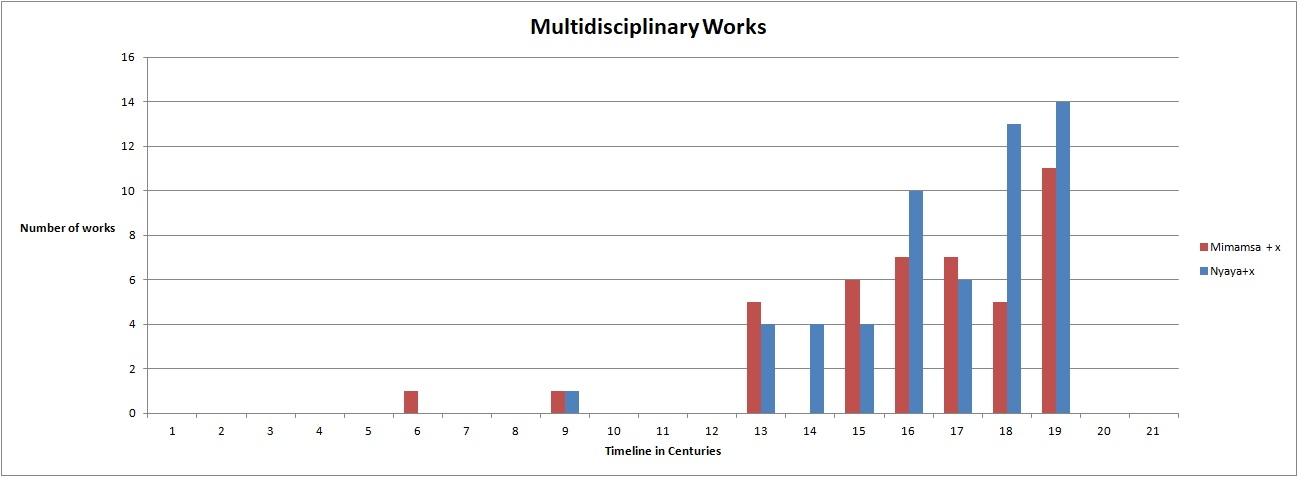
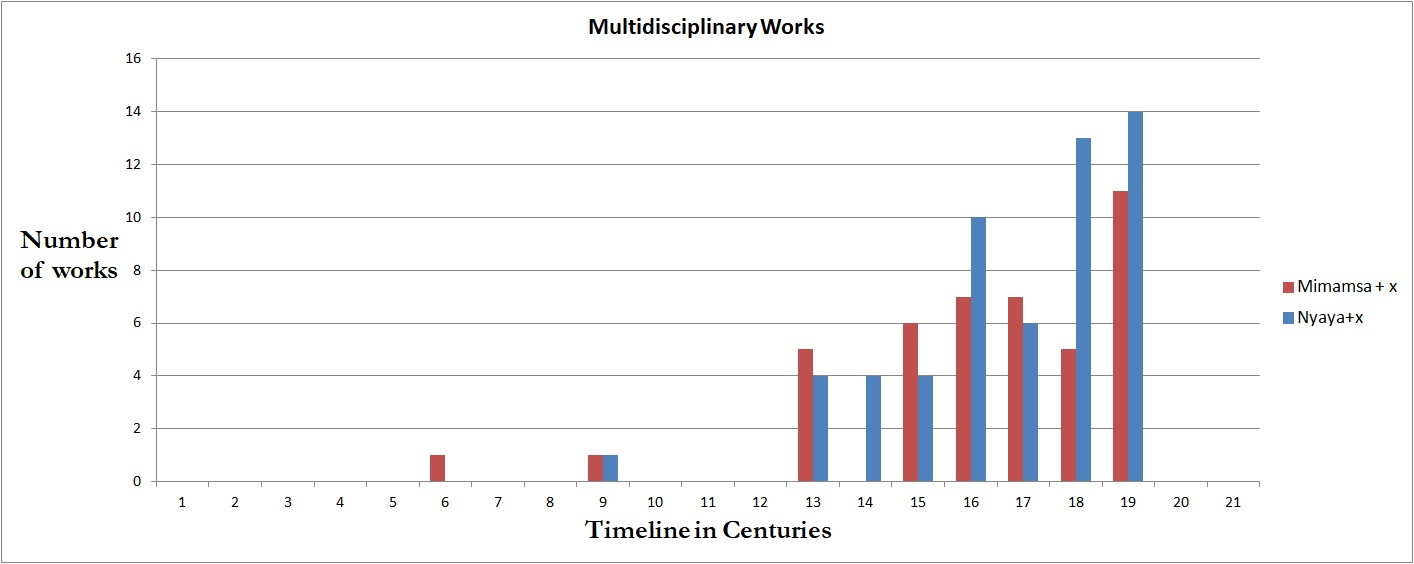
figure placement in landscape is done

diff --git a/Reclaiming_Sanskrit_Studies_Vol2/src/chapter2.tex b/Reclaiming_Sanskrit_Studies_Vol2/src/chapter2.tex
@@ -2,14 +2,15 @@
 
 \Authorline{Manjushree Hegde\footnote{Manjushree Hegde: <email>\\  <pp.\pageref{chapter\thechapter:begin}--\pageref{chapter\thechapter:end}> In Kannan Dr K S, 2018 <book title>}}
 \lhead[\small\thepage\quad Manjushree Hegde]{}
+\smallskip
 \section*{Abstract}
+\smallskip
 
 Sheldon Pollock’s international collaborative project viz. {\sl Sanskrit Knowledge Systems on the Eve of Colonialism} (SKSEC) aspires to trace the intellectual history of pre-modern India in order to gather a “clearer picture” of the professed death of Sanskrit “in the face of European modernity”. Superficially, SKSEC demonstrates a spirit of openness towards the multiplicity of possible answers to the complex questions it raises. Yet, a closer reading shows that SKSEC works within a fixed framework of predetermined conjectures \& conclusions, and to these, I wish to draw the readers’ attention. 
 
 Firstly, it does not appear to be a strictly construed “intellectual history” that Pollock commits to chart — it appears he is simply enamored by the catch-phrase “{\sl navya}” that was in vogue during the period under examination, and merely wishes to understand what of the {\sl navya}-movement was, in fact, “new”. For Pollock, this word, “{\sl navya}”, is a precious discovery; what he wishes to do with it is to tune the Indian intellectual trajectory into perfect symphony with the European Renaissance — in other words, to equate “{\sl navya}” with “rebirth”/“renaissance”. Further, if Europe embraced/encouraged the Renaissance, Pollock writes that India largely repudiated the {\sl navya} impulse. Therefore, to Pollock, it was the presence of “something internal, not external, to the Sanskrit intellectual formation… that arrested the capacity for development by cordoning off the kind of critique that had once supplied that formation’s very life force.”
 It is rather clear, then, that SKSEC works on a few presumptions—   
 \begin{itemize}
-\itemsep=1pt
 \item[(a)] that the seventeenth-century Indian intellectual tradition was characterized by certain peculiarities that were comparable to the European Renaissance;
 
 \item[(b)] that they proved completely powerless in the face of their European counterparts, and the millennia-old systems of thought were finally, irrevocably, replaced by the latter; and 
@@ -36,6 +37,8 @@ Pollock conceived of SKSEC to sketch the ebb and flow of ideas in pre-modern Ind
 
 Firstly, it does not appear to be a strictly construed “intellectual history” that Pollock commits to chart — it is as though he is simply enamored by the catch-phrase “{\sl navya}” that was in vogue during the period under examination (viz. 1550-1750 C.E), and merely wishes to understand what of the {\sl Navya}-movement was, in fact, “{\sl navya}” or “new”. For Pollock, this word, “{\sl navya}”, is a precious discovery; what he wishes to do with it is to tune the Indian intellectual trajectory into perfect symphony with European Renaissance — in other words, to equate “{\sl navya}” with “rebirth”/“renaissance” (Pollock 2000:3)\endnote{This document is available at \url{http://dsal.uchicago.edu/sanskrit/papers/Indian_Knowledge_Systems.pdf}. Document not paginated. One can reach the quote at page no. 3 counting manually.} So, this undertaking tries to identify the characteristics that defined European Renaissance — subjectivity/individuality, historical awareness, renewed interest in classical texts, etc — in the Indian intellectual landscape of the period 1550-1750. Moreover, he aims to attribute this general atmosphere of intellectual dynamism to the consolidation of Muslim rule in India (Pollock 2007: 8).
 
+\newpage
+
 Furthermore, if Europe embraced/encouraged the Renaissance, Pollock writes, India largely repudiated the {\sl navya} impulse. A comparison between the two traditions, he notes, would show “how differently India and Europe responded to similar conceptual challenges – and how radically, after centuries of homomorphism, their intellectual histories diverged” (Pollock 2007:8). So, according to him, the two traditions — European and Indian — finally differed in how they reacted to this impulse of “newness” and in it lay their respective triumph and downfall (Pollock 2007:8). Therefore, to Pollock, it was the presence of “something internal, not external, to the Sanskrit intellectual formation… that arrested the capacity for development by cordoning off the kind of critique that had once supplied that formation’s very life force” (Pollock 2007:8). It is no wonder, to Pollock, then, that “before the uncompromising modernity that developed in Europe and was disseminated by colonialism, Sanskrit intellectual formation melted like so much snow in the light of a brilliant, pitiless sun.” (Pollock 2000:20)
 
 It is rather clear, then, that SKSEC works on a few presumptions— that, 
@@ -48,6 +51,8 @@ It is rather clear, then, that SKSEC works on a few presumptions— that,
 \end{itemize}
 
 In the present paper, I examine carefully Pollock’s idea of the “new” in seventeenth-century Indian knowledge systems, their colonial encounter, and the dubious inferences they allude to.
+
+\newpage
 
 \section{Indian intellectual traditions in the\newline seventeenth-century}
 
@@ -62,6 +67,8 @@ It is worth quoting the long message of Brotton:
 “Michelet’s Renaissance does not happen in Italy in the 14th and 15th centuries, as we have come to expect. Instead, his Renaissance takes place in the 16th century. As a French nationalist, Michelet was eager to claim the Renaissance as a French phenomenon. As a republican, he also rejected what he saw as 14th-century Italy’s admiration for church and political tyranny as deeply undemocratic, and hence not part of the spirit of the Renaissance. Michelet’s story of the Renaissance was shaped decisively by his own 19th-century circumstances. In fact, the values of Michelet’s Renaissance sound strikingly close to those of his cherished French Revolution: espousing the values of freedom, reason, and democracy, rejecting political and religious tyranny, and enshrining the spirit of freedom and the dignity of ‘man’. Disappointed in the failure of these values in his own time, Michelet went in search of a historical moment where the values of liberty and egalitarianism triumphed and promised a modern world free of tyranny.”	\hfill{Brotton (2006: 11)}
 \end{myquote}
 
+\newpage
+
 If Michelet fashioned the idea of Renaissance, it was Jacob Burckhardt who defined it as a 15th-century Italian (not French) phenomenon. In 1860, Burckhardt published his work, {\sl The Civilization of the Renaissance in Italy}. In it, he argued that it was the peculiarities of political life in late 15$^{\rm th}$ century Italy that led to the creation of a “recognizably modern individuality”. Accordingly, the revival of classical antiquity, the discovery of the wider world, and the growing unease with organized religion meant that “man became a spiritual individual.” Burckhardt contrasted this with the lack of individual awareness that for him defined the Middle Ages—  “…(in the middle ages) man was conscious of himself only as a member of a race, people, party, family or corporation” (Brotton 2006: 11). Brotton writes,
 \begin{myquote}
 “Burckhardt says very little about Renaissance art or economic changes, and overestimates what he sees as the skeptical, even ‘pagan’ approach to religion of the day. His focus is exclusively on Italy; he makes no attempt to see the Renaissance in relation to other cultures. His understanding of the terms ‘individuality’ and ‘modern’ also remain extremely vague. Like Michelet, Burckhardt’s vision of the Renaissance reads like a version of his own personal circumstances.”  
@@ -74,6 +81,8 @@ Michelet and Burckhardt’s celebrations of art and individuality found their lo
 So it was that Michelet, Burckhardt, and Pater created an idea of the “spirit of Renaissance”. It is not an accurate historical account of what took place in 15th century Europe — it simply captures an ideal of the later society. 
 
 If the Renaissance did not occur even in Europe in the way it is imagined, and showcased to be, it seems rather pointless to demonstrate an “Indian Renaissance”, and draw parallels between the two “movements”. Yet, that is precisely what Sheldon Pollock sets out to do. 
+
+\newpage
 
 In his project SKSEC, he starts with a questionable {\sl a priori} that the two centuries (1550-1750) – just prior to the colonial encounter – witnessed an unprecedented “flowering of intellectual life” in India — remarkably comparable with European Renaissance. A significant number of SKSEC’s working-papers are, in fact, committed to finding the same novelty in seventeenth-century Indian intellectual traditions. Let us, then, examine the “newness”/distinguishing characteristics of seventeenth-century Indian knowledge systems as purported by Sheldon Pollock.
 
@@ -88,13 +97,22 @@ It must be noted here that Pollock chooses to examine only those disciplines whe
 Furthermore, for Pollock, this trend is no mere artefact of preservation. According to him, there is absolutely no evidence to show that anything substantial was lost in the preceding period. He cites the example of Caṇḍeśvara’s work in political theory to validate his point — Caṇḍeśvara, apparently, refers to only one text from the entire preceding two centuries, and therefore, Pollock concludes, “the upsurge we see is real” Pollock (2007: 8).
 
 Below is a statistical analysis of all the available works (of three disciplines viz. Pūrvamīmāṁsā, Vedānta and Nyāya) through the centuries. It is based on Karl. H. Potter’s (2009-2015) encyclopedia of Indian philosophical systems, and approaches near accuracy. If proliferation of texts — or their availability, discounting any loss of material — is a measure of a knowledge-system’s status, may we safely conclude that Pūrvamīmāṁsā is vigorously alive — in fact, almost at its zenith — today?   
+
+\newpage
+
+\begin{landscape}
+~\phantom{a}
+\vfill
 \begin{figure}[H]
 \centering
-\includegraphics[scale=.88]{figures/fig1.jpg}
+\includegraphics[scale=1.4]{figures/fig1.jpg}
 \caption{Number of (extant) texts of Indian Knowledge Systems (100 CE - 1900 CE)}\label{chap2-fig1}
 \end{figure}
+\vfill
+~\phantom{a}
+\end{landscape}
 
-\vfill\eject
+\eject
 
 If, on the other hand, we ignore the minor works, and make a list of only the prominent writers of a discipline, we find a table of a different sort: 
 \begin{table}[H]
@@ -137,8 +155,6 @@ If, on the other hand, we ignore the minor works, and make a list of only the pr
 
 Neither the Figure nor the Table, supports as we can see, Pollock’s flavor of argument in respect of either peaks or troughs.
 
-
-
 \subsection{Newness of form}%%% 1.2
 
 Pollock writes that a significant innovation of style is observable in the works of this period – an adoption of the new philosophical meta-language characterized by the excessive employment of the highly refined terminologies of Navya-nyāya. This, of course, is true. But it is important to note that this trend was initiated in the thirteenth century itself by Gaṅgeśa in Mithilā. Gaṅgeśa developed the technique of subtle argumentation in his {\sl magnum opus}  viz. {\sl Tattvacintāmaṇi}. The tradition was carried forward by Vardhamāna (fourteenth century), Yajñapati Upādhyāya (fifteenth century), and Pakṣadhara Miśra (fifteenth century), among others. From Mithilā, Navya-nyāya travelled to Navadvīpa in Bengal. Raghunātha Śiromaṇi (sixteenth-century) of Navadvīpa wrote a commentary on {\sl Tattvacintāmaṇi} entitled {\sl Dīdhiti} in which he introduced a few changes in Navya-nyāya metaphysics and epistemology. Subsequent proponents of Navya-nyāya in Bengal — including Bhavānanda Siddhāntavāgīśa, Mathurānātha Tarkavāgīśa, Jagadīśa Tarkālaṅkāra and Gadādhara Bhaṭṭācārya — wrote commentaries on {\sl Dīdhiti} which contributed to the fullest development of Gaṅgeśa’s technique of reasoning. 
@@ -179,28 +195,49 @@ Below is a statistical analysis of the scholars who have written at least one wo
 
 Again, if availability of texts, discounting any loss of material, is to be used as a yardstick of the intellectual climate of India, a claim of a sharp rise of multidisciplinary pursuits in exactly the period under examination (viz. 100 CE - 1900 CE) remains an unsubstantiated conjecture.
 
+
 \newpage
 
-\begin{figure}[ht]
+\begin{landscape}
+~\phantom{a}
+\vfill
+%\begin{sidewaysfigure}
+\begin{figure}[H]
 \centering
-\includegraphics[scale=.9]{figures/fig2.jpg}
+\includegraphics[scale=1.37]{figures/fig2.jpg}
 \caption{Number of multi-disciplinary scholars (100 CE - 1900 CE)}\label{chap2-fig2}
+%\end{sidewaysfigure}
 \end{figure}
+\vfill
+~\phantom{a}
+\end{landscape}
+
+\newpage
+
 
 \subsection{Subjectivity}%%% 1.4
 
 According to Pollock, the “new cross-cultural interactions…that began to take place from the beginning of the Mughal period were without parallel for the conceptual and social distances being bridged, especially among Sanskrit and Persianate intellectuals at the Mughal court” (Pollock 2000:17). 
 
+\vskip .1cm
+
 It must be noted here that Pollock reasserts, in the same breath, that we have only the vaguest notions about the material conditions of life of seventeenth-century Sanskrit intellectuals, their sources of patronage and relations with courtly power, their networks of intellectual exchange and circulation, about their modes of association or the institutional structures in which they worked, etc. 
+
+\vskip .1cm
 
 For most of the key thinkers in question, he writes, “we are confronted by an absence of contextuality that is almost absolute” (Pollock 2000:4). How he makes the outlandish associations, then, is a matter known only to him. 
 
+\vskip .1cm
+
 He continues: inseparable from the new social circumstances of these scholars was the presence of a “striking new subjectivity” in their literary works (Pollock 2001a:20).  
+
 \begin{myquote}
 “Never before in Sanskrit literature had a writer constructed a self quite so vividly present as Siddhichandra does in his autobiography. The work itself, embedded in the biography of his teacher, almost objectifies the tension between a very old conception of heteronomy and a very new self-fashioning that the text treatises throughout. Jagannātha composed verses on the death of his wife that are unprecedented in earlier Sanskrit poetry, and his lyrics on a Yavanī woman he named Lāvaṅgī ({\em sic})\endnote{The name of the lady is Lavaṅgī, not Lāvaṅgī. The oft-quoted verse has ``{\em lavaṅgī kuraṅgīdṛgaṅgīkarotu} (Note that ``{\em lāvaṅgī}'' would violate the metre) (Ref. Durgaprasad and Pansikar 1916: 1)} (who almost certainly had become his wife) are probably an appropriation of the Persian motif of the {\sl mahbūb}, the ever-unattainable beloved whose unattainability is typically exaggerated by the code of the otherness…” 
 
 \hfill Pollock (2001a:20)
 \end{myquote}
+
+\vskip .1cm
 
 In every paper on this topic\endnote{Refer these four papers of Pollock (written over 7 years) : Pollock (2003), (2001a), (2001b), (2007).}, Pollock has just these two examples to furnish to substantiate his claim — that of Siddhicandra and Jagannātha Paṇḍita. To be sure, there are a number of anecdotes about Jagannātha Paṇḍita. Of them P.V.\ Kane writes, “The story about Jagannātha’s liaison with a Yavana damsel called Lavaṅgī (in such verses as {\sl yavanī navanīta}, etc) appears to be a myth spread by those who were offended by the biting tongue (rather pen) of Jagannātha.” (Kane 1961:324) 
 
@@ -251,20 +288,17 @@ Here, the word {\sl vṛtta} in connection with {\sl sva-ceṣṭita} indicates 
 
 If Pollock wishes to attribute — this as a characteristic feature of the sixteenth-seventeenth centuries, and also to attribute it to Mughal interactions, he must ground his arguments on more solid facts. Funnily, analyzing the works of two other poets of the period, Pollock contradicts his own words,
 
-\newpage
-
  “… that a radical alteration in social environment can fail to produce a commensurate transformation of cultural vision is even more patent in the life of Kavīndrācārya Sarasvatī (ca. 1600–75).” 
 
 \hfill (Pollock 2001a:25)
 
-It would make his case stronger/clearer if only Pollock would decide if or not the “radical alteration in social environment” made a radical transformation of traditional minds! 
+It would make his case stronger/clearer if only Pollock would decide if or not the “radical alteration in social environment” made a radical transformation of traditional minds!\\[-20pt] 
 
 \subsection{Historicity}%%% 1.5
 
 Yet another distinguishing feature of this period, according to Pollock, is a historical, “perhaps even historicist”, conceptual framework for understanding the development of knowledge systems. With continued regularity, Pollock has but a single example to substantiate his claim in all his papers on the subject\endnote{See Pollock (2000), (2004), and (2001a).} — that of Mahādeva’s {\sl Nyāya-kaustubha}. 
 
 Pollock admits that it is unfair to infer from this evidence and his arguments based on it that prior to this period, chronological thinking as such was never attested, that earlier knowledge was never described as earlier in scholarly discourse. It is, after all, a well-known fact that polymaths like Abhinavagupta, Vacaspati Miśra, etc. followed a similar chronological-method of argument. In fact, Vacaspati Miśra (960 C.E) had specifically divided the followers of Prabhākara Miśra into “{\sl Jarat-Prābhākara}-s”, and “{\sl Navya-Prābhākara}-s”.  
-
 \begin{myquote}
 “Such is certainly not the case”  “… but what I do wish to suggest is that in the seventeenth century, for the first time, knowledge was believed to be better not just because it might objectively be better — endowed with greater coherence, economy, explanatory power — but also in part because it was new.”  \hfill{Pollock (2001a:11)}
 \end{myquote}
@@ -275,15 +309,12 @@ We see here that Sheldon Pollock starts from an {\sl a priori} that Indian intel
 
 But it must be understood that tradition in India, in Coomaraswamy’s words, “has nothing to do with any “ages”, whether “dark”, “primeval”, or otherwise... Tradition represents doctrines about first principles, which do not change; and traditional institutions represent the application of these principles in particular environments… metaphysics is not a system, but a consistent doctrine; it is not merely concerned with conditioned and quantitative experience, but with universal possibility…” (Lipsey: 1987:37). Furthermore, it is unreasonable to view the absence of the idea of new as “progress” in India, as a sign of stagnation; after all, not always is success (as in modernity) the capacity to expand; success is also the capacity to endure. There is no law of chronic deficiency in human affairs mandating that societies, like cities, must always be under construction and never complete, that understandings of literary art, the structure of the moral order, or the organization of power can never achieve something like adequacy or even perfection for the social world concerned, but must be constantly rejected for something newer and better - the very slogan of modernity.  
 
-If it were not for the commitment to finding differences, Pollock would see that it is far easier to see the continuity of the tradition than its divergence. In Coomaraswamy’s words, “The passionless reason of its “objective” scholarship, applied to the study of “what men have believed” is only a sort of frivolity, in which the real problem, that of knowing what should be believed, is evaded” (Coomaraswamy 1943:6). In practice, Indian knowledge systems’ capacity to assimilate variation is, in fact, its most salient feature. Broadly viewed, the tradition has retained, right up to modern times, a kind of non-coercive elasticity and expressive virtuosity that have been there all along — in a way, it is precisely this elegant mechanism of continuous cultural self-invention that has allowed it to stay strong in the face of the cultural invasion. 
+If it were not for the commitment to finding differences, Pollock would see that it is far easier to see the continuity of the tradition than its divergence. In Coomaraswamy’s words, “The passionless reason of its “objective” scholarship, applied to the study of “what men have believed” is only a sort of frivolity, in which the real problem, that of knowing what should be believed, is evaded” (Coomaraswamy 1943:6). In practice, Indian knowledge systems’ capacity to assimilate variation is, in fact, its most salient feature. Broadly viewed, the tradition has retained, right up to modern times, a kind of non-coercive elasticity and expressive virtuosity that have been there all along — in a way, it is precisely this elegant mechanism of continuous cultural self-invention that has allowed it to stay strong in the face of the cultural invasion.\\[-20pt] 
 
-\vskip .1cm
 
 \subsection{Newness of Intellect, Oldness of Will}%%%1.6
 
 In his defense, Pollock does, in fact, recognize the continuity of the tradition; only, he chooses to derogatorily call it an “oldness of will”. We offer here two citations of Pollock in support of our remark.
-
-\vskip .1cm
 \begin{myquote}
 “He was an “innovative traditionalist,” … for whom the new was “intimately connected to reestablishing the old” – an intellectual objective very widely shared in this epoch, but about whose intellectual-historical, or social-historical, logic we currently understand next to nothing.” \hfill{Pollock (2001a:4)}
 

diff --git a/Reclaiming_Sanskrit_Studies_Vol2/mainfile.tex b/Reclaiming_Sanskrit_Studies_Vol2/mainfile.tex
@@ -34,13 +34,13 @@
 
 %\part{``Link" between Sanskrit and Nazism}
 
-\input src/chapter1
+%\input src/chapter1
 \setcounter{chapter}{1}
 \input src/chapter2
-\setcounter{chapter}{2}
-\input src/chapter3
-\setcounter{chapter}{3}
-\input src/chapter4
+%\setcounter{chapter}{2}
+%\input src/chapter3
+%\setcounter{chapter}{3}
+%\input src/chapter4
 %\setcounter{chapter}{4}
 %\input src/chapter5
 %\setcounter{chapter}{5}

diff --git a/Reclaiming_Sanskrit_Studies_Vol2/src/macros.tex b/Reclaiming_Sanskrit_Studies_Vol2/src/macros.tex
@@ -7,7 +7,8 @@
 \usepackage{endnotes}
 \usepackage{setspace}
 \usepackage{imakeidx}
-\usepackage{amsmath}
+\usepackage{amsmath,lscape}
+\usepackage{rotating}
 
 \usepackage{float}
 \floatstyle{plain}
